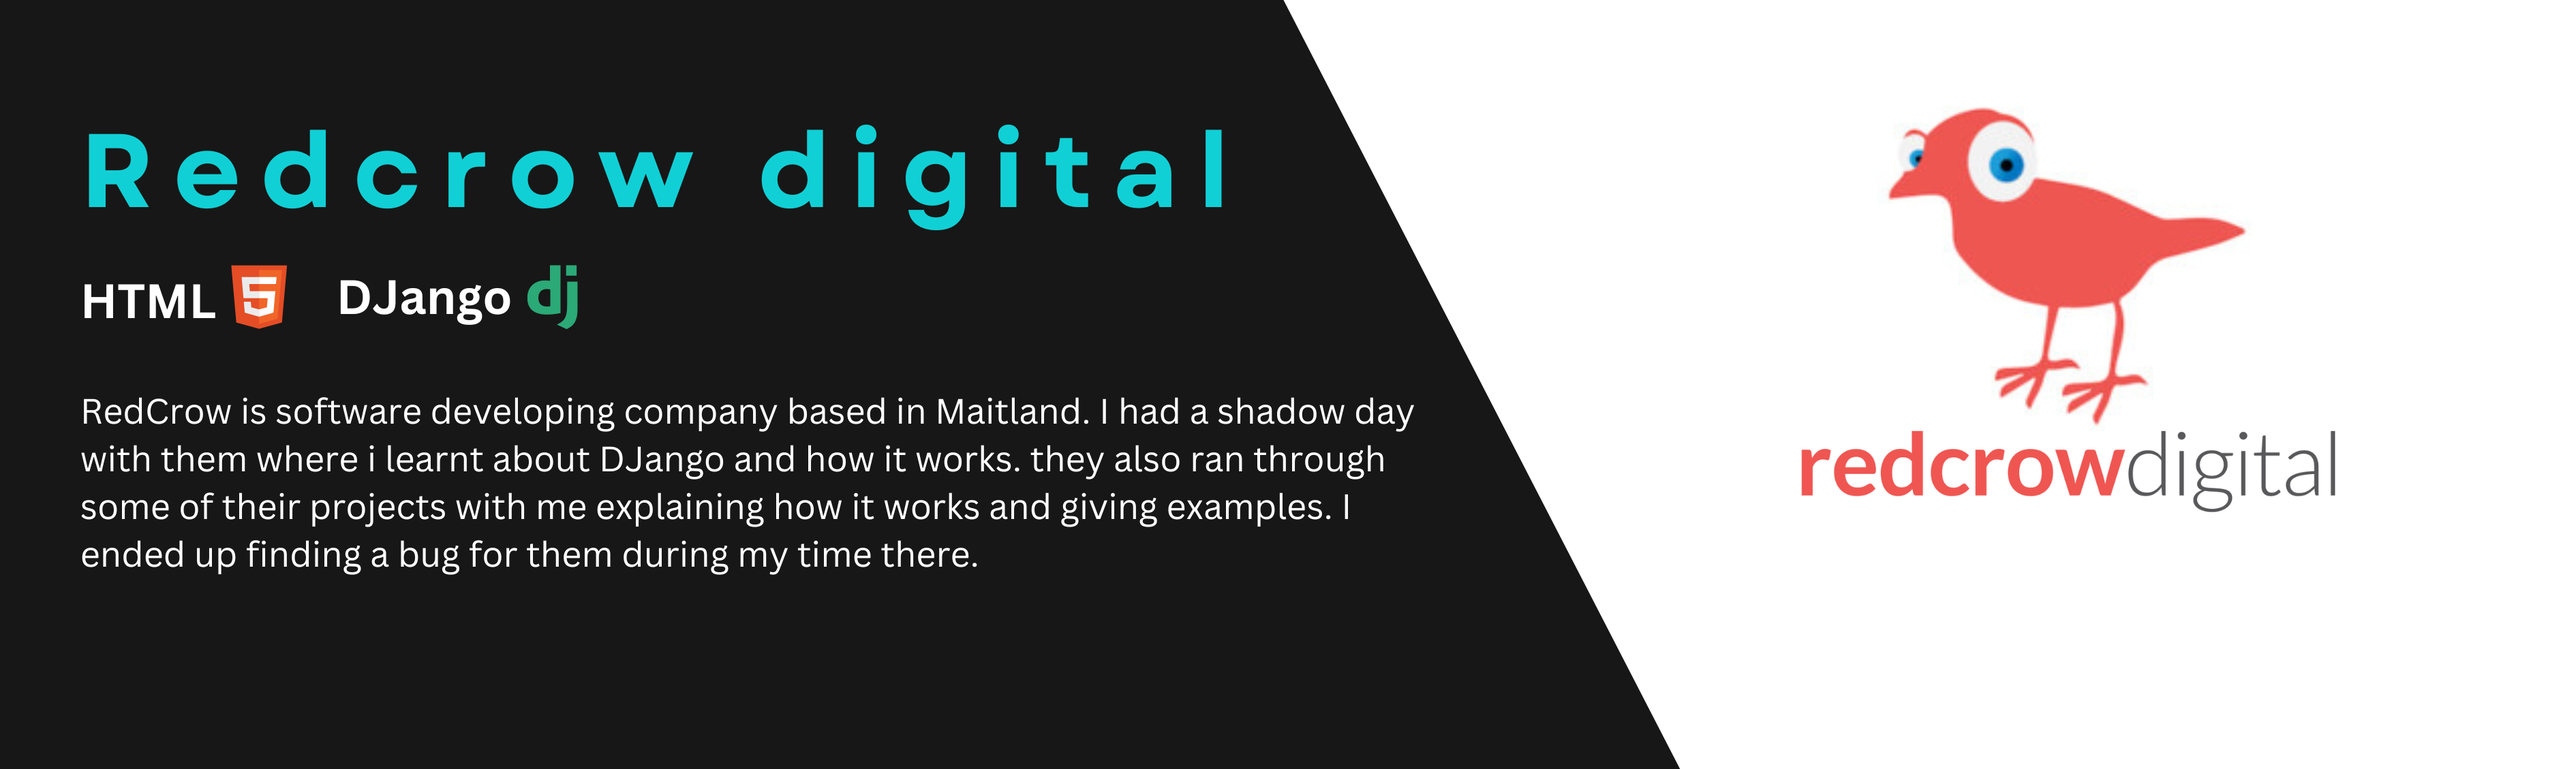
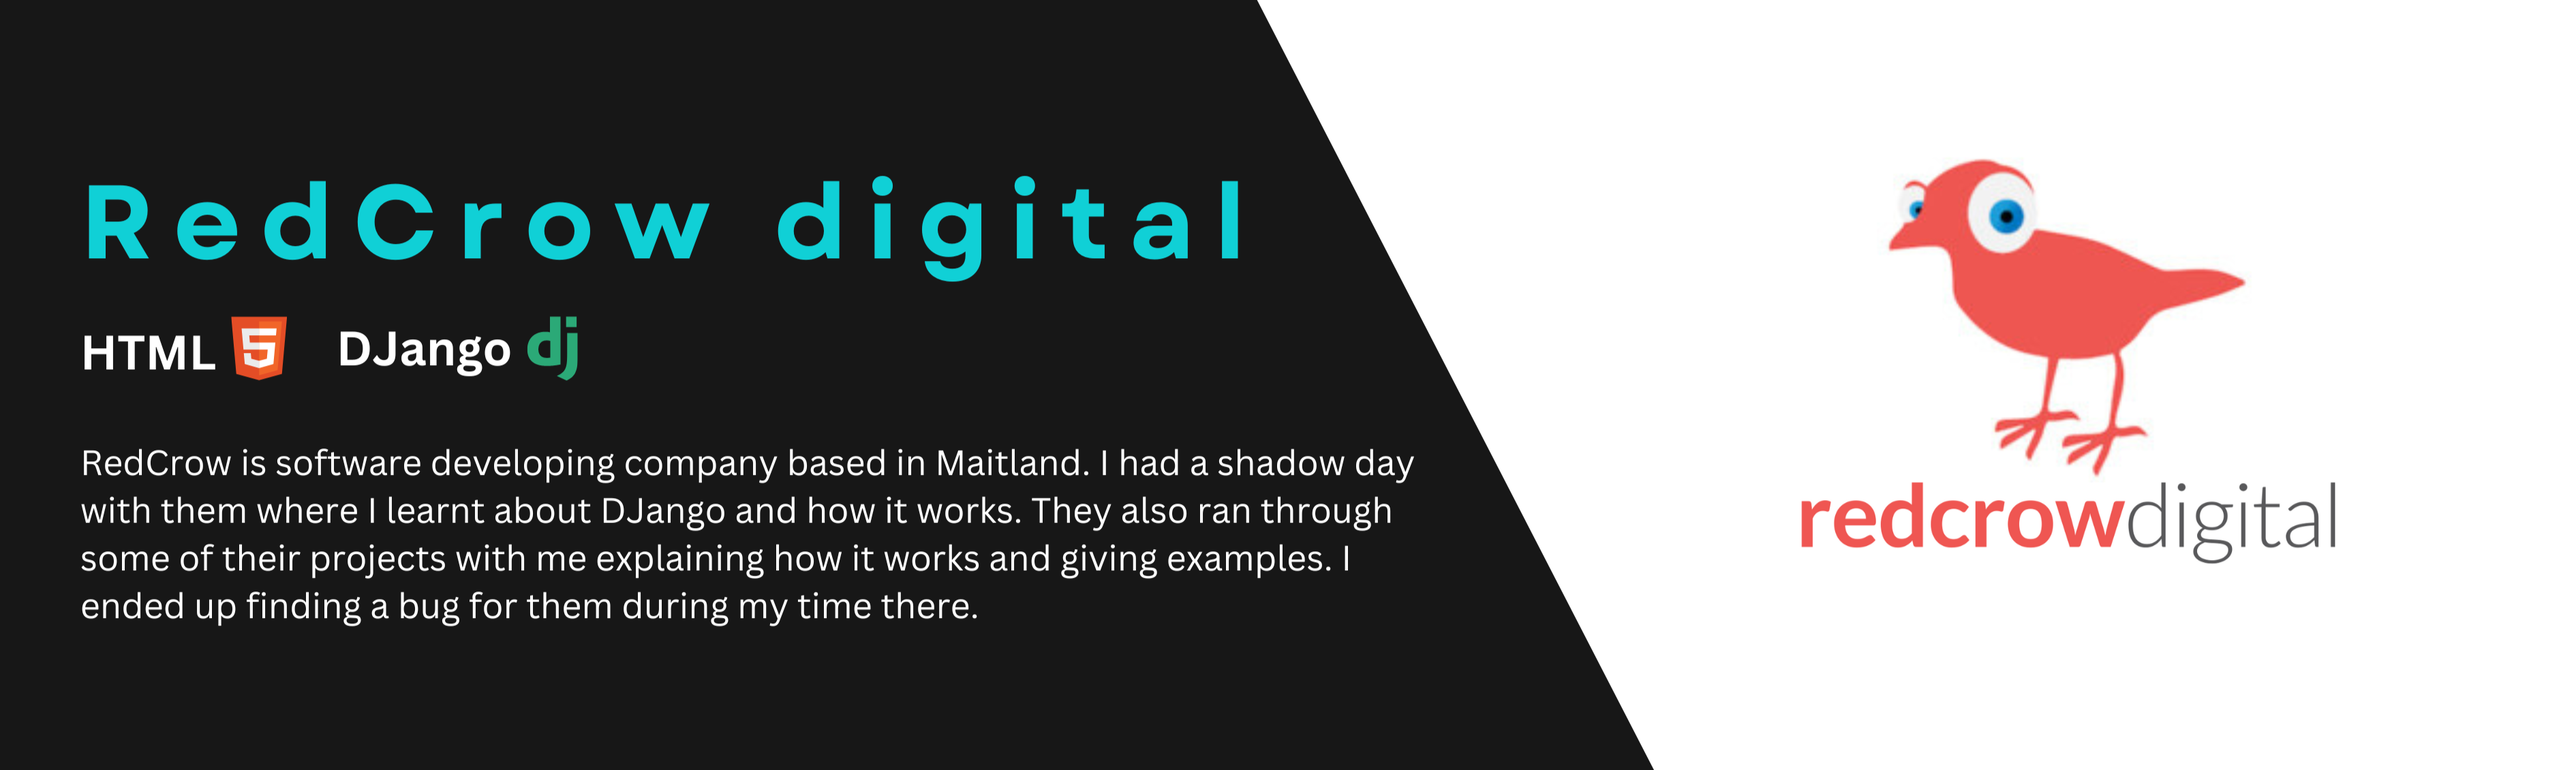
fixing typos

diff --git a/lib/pages/projects/project4.dart b/lib/pages/projects/project4.dart
@@ -24,7 +24,7 @@ class _Project4State extends State<Project4> {
     // title
     'Strocoge',
     // description
-    'Stocoge is a project that started out with the Auslan Glove project, where the University of Newcastle and I were designing a glove that can translate Auslan to a verbal form of communication. Strocoge uses the skills and knowledge from the Auslan glove project but with a different goal,  the aim is to create a glove that can aid stroke recovery patients, by allowing a better form of communication between the user and others. It does this via multiple sensors in the glove.',
+    'Strocoge is a project that started out with the Auslan Glove project, where the University of Newcastle and I were designing a glove that can translate Auslan to a verbal form of communication. Strocoge uses the skills and knowledge from the Auslan glove project but with a different goal, the aim is to create a glove that can aid stroke recovery patients, by allowing a better form of communication between the user and others. It does this via multiple sensors in the glove.',
     // mentors
     [
       'Dr Jacqueline Bailey - Associate Professor UON',

diff --git a/lib/pages/outlearning.dart b/lib/pages/outlearning.dart
@@ -72,7 +72,7 @@ class _OutlearningState extends State<Outlearning> {
                                   ),
                                   // description
                                   Text(
-                                    "LTI or Learning Through Internship is a program ran by Big Picture School that gets students to go into the workforce to learn real life and practical skills related to their passions. We find these chances ourselves through online resaerch and contacting business's, organisations, or charities.",
+                                    "LTI or Learning Through Internship is a program run by Big Picture School that gets students to go into the workforce to learn real life and practical skills related to their passions. We find these oppotunities ourselves through online research and contacting business's, organisations, or charities.",
                                     style: TextStyle(
                                         color: secondaryColour3,
                                         fontSize:
